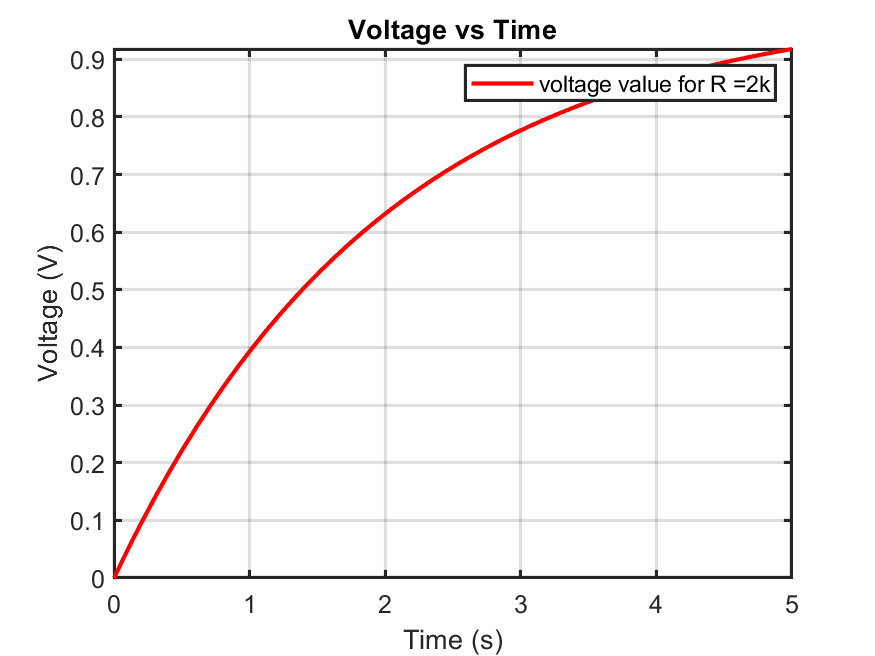
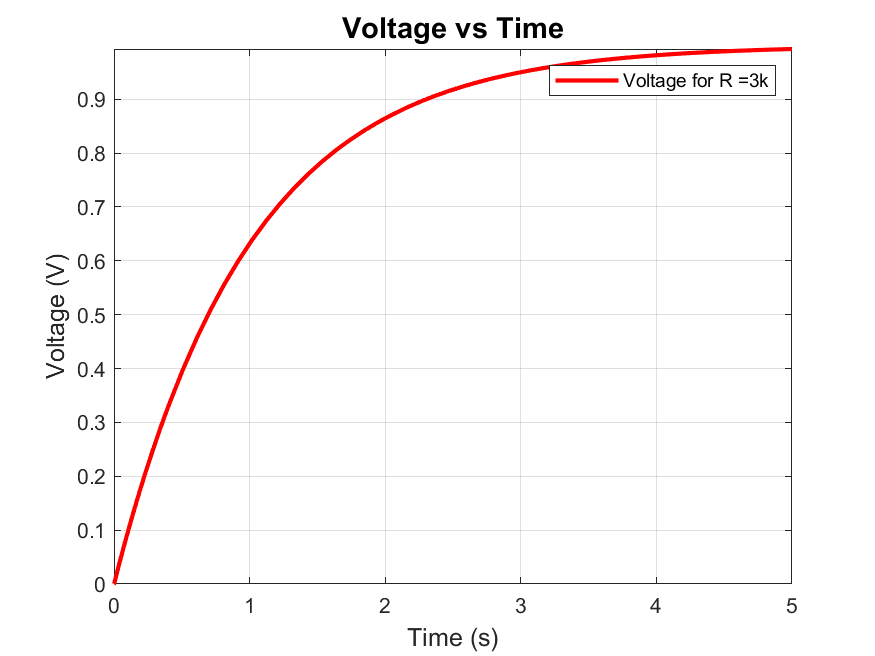
matlab updated 3

Changed region(s): [[0.0309, 0.0305, 0.9257, 0.9451], [0.4629, 0.9451, 0.5863, 1.0], [0.7406, 0.9146, 0.7714, 0.9451]]

diff --git a/scripts/matlab/LTspice_automate_matlab_organized.m b/scripts/matlab/LTspice_automate_matlab_organized.m
@@ -1,0 +1,113 @@
+clc; clear; close all;
+
+%% Configuration Section
+% Define paths and file locations
+netlist_directory = 'D:\Research\LTspice-integration-with-Matlab-and-Python\LTspice_circuits\';
+spice_file_name_tran = 'RC_ckt_transient';  % Edit according to your LTspice circuit file name
+LTSpice_exe_directory = 'C:\Program Files\LTC\LTspiceXVII';
+code_directory = 'D:\Research\LTspice-integration-with-Matlab-and-Python\scripts\matlab\';
+result_directory = 'D:\Research\LTspice-integration-with-Matlab-and-Python\plots\';  % Directory for results
+
+% We have a RC LTspice circuit, where we want to change the original
+% resistance value to see the changes in the output voltage vs. time.
+% This is just an example on how we can automate any changes we want to see
+% using MATLAB
+
+% Resistance value to modify in the circuit
+R_val = 3;  % New resistance value in the RC circuit (in kOhms)
+
+%% Helper functions
+addpath(code_directory);
+
+% Function to build full file paths
+build_path = @(dir, filename, ext) fullfile(dir, strcat(filename, ext));
+
+% Paths for netlist and raw data files
+netlist_file_tran = build_path(netlist_directory, spice_file_name_tran, '.net');
+raw_file_tran = build_path(netlist_directory, spice_file_name_tran, '.raw');
+asc_file_tran = build_path(netlist_directory, spice_file_name_tran, '.asc');
+
+%% Run LTSpice simulation
+% Change directory to LTSpice and run the transient analysis
+cd(LTSpice_exe_directory);
+run_LTspice_simulation(asc_file_tran);
+
+%% Modify Netlist
+% Open the netlist and modify the resistor value
+modify_netlist(netlist_file_tran, R_val);
+
+% Save the new netlist with the updated resistor value
+netlist_file_name_new = save_modified_netlist(spice_file_name_tran, R_val, netlist_directory);
+
+%% Run LTSpice with modified netlist
+run_LTspice_simulation(netlist_file_name_new);
+
+%% Extract and Process Simulation Data
+raw_data = LTspice2Matlab(raw_file_tran);
+[var_char, voltage, time] = extract_voltage_time_data(raw_data, 'V(vout)');
+
+%% Plot Results
+plot_voltage_vs_time(time, voltage, R_val, result_directory);
+
+rmpath(code_directory);
+
+%% Helper Functions
+
+function run_LTspice_simulation(asc_file)
+    % Runs LTSpice simulation
+    system_command = strcat('XVIIx64.exe -run -b "', asc_file, '"');
+    system(system_command);
+end
+
+function modify_netlist(netlist_file, R_val)
+    % Modify the resistor value in the netlist file
+    fid = fopen(netlist_file, 'rt');
+    X = fread(fid);
+    fclose(fid);
+    X = char(X.');
+    
+    % Replace old resistor value with the new one
+    S1 = '.param R=1k';  % Default value
+    S1_new = strcat('.param R=', num2str(R_val), 'k');
+    Y1 = strrep(X, S1, S1_new);
+    
+    % Write modified netlist back to the file
+    fid = fopen(netlist_file, 'wt');
+    fwrite(fid, Y1);
+    fclose(fid);
+end
+
+function netlist_file_new = save_modified_netlist(spice_file_name, R_val, netlist_directory)
+    % Save the modified netlist with a new name
+    netlist_file_new = fullfile(netlist_directory, strcat(spice_file_name, '_R_', num2str(R_val), '.net'));
+    copyfile(fullfile(netlist_directory, strcat(spice_file_name, '.net')), netlist_file_new);
+end
+
+function [var_char, voltage, time] = extract_voltage_time_data(raw_data, voltage_variable)
+    % Extract voltage and time from LTSpice simulation results
+    var_char = raw_data.variable_name_list;
+    index = find(strcmp(var_char, voltage_variable));  % Looking for the specific variable
+    voltage = raw_data.variable_mat(index, :);
+    voltage = transpose(voltage);
+    time = transpose(raw_data.time_vect);
+end
+
+function plot_voltage_vs_time(time, voltage, R_val, result_directory)
+    % Create a plot of voltage vs time and save it
+    figure;
+    plot(time, voltage, 'LineWidth', 2, 'Color', 'r');
+    
+    % Customize plot
+    title('Voltage vs Time', 'FontSize', 14, 'FontWeight', 'bold');
+    xlabel('Time (s)', 'FontSize', 12);
+    ylabel('Voltage (V)', 'FontSize', 12);
+    legend(strcat('Voltage for R =', ' ', num2str(R_val), 'k'));
+    grid on;
+    
+    % Set axis limits
+    xlim([min(time), max(time)]);
+    ylim([min(voltage), max(voltage)]);
+    
+    % Save the plot as PNG
+    saveas(gcf, fullfile(result_directory, 'voltage_vs_time_plot_matlab.png'));
+end

diff --git a/scripts/matlab/LTspice_automate_matlab.m b/scripts/matlab/LTspice_automate_matlab.m
@@ -26,7 +26,7 @@ cd(netlist_directory);
 % This is just an example on how we can automate any changes we want to see
 % using MATLAB
 
-R_val = 2; % new value of the Resistance in the RC circuit
+R_val = 2; % new value of the Resistance in the RC circuit (in kOhms)
 fid = fopen(spice_file_name_net_tran,'rt') ; % generated net list being opened
 X = fread(fid); % net list file being read
 fclose(fid);
